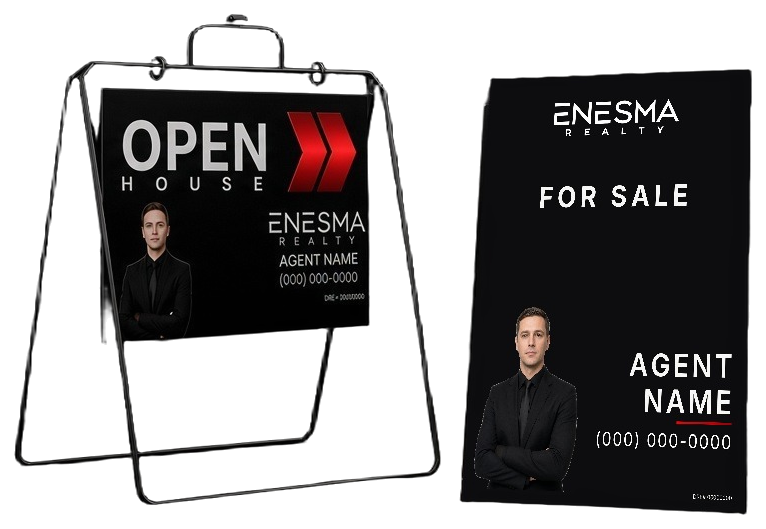
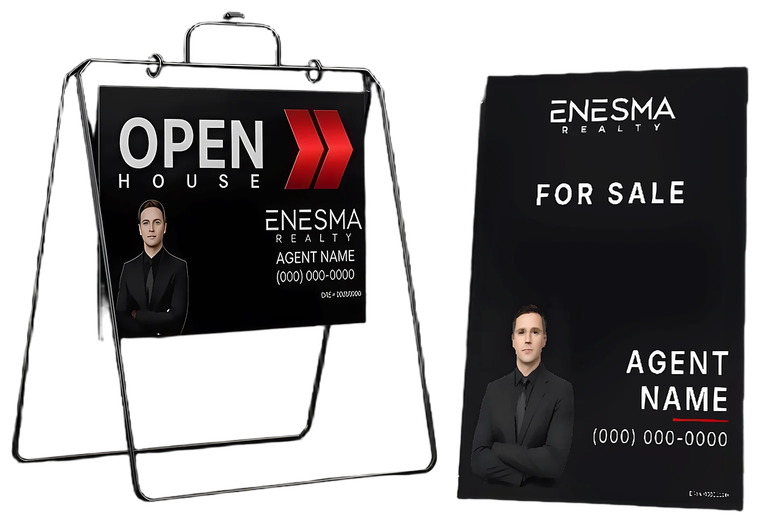
Home tiles: sharper, brighter product cutouts (2x upscaled, cleaned dark areas) so the black merchandise reads clearly on the black tiles. (#24)

diff --git a/index.html b/index.html
@@ -8,7 +8,7 @@
 (function () {
   var path = location.pathname, marker = '/enesma-shop/', i = path.indexOf(marker);
   window.SHOP_BASE = i >= 0 ? path.slice(0, i + marker.length) : '/';
-  var v = '20261123t';
+  var v = '20261123v';
   var b = window.SHOP_BASE;
   document.write('<base href="' + b + '">');
   document.write('<link rel="stylesheet" href="' + b + 'css/shop.css?v=' + v + '">');
@@ -34,13 +34,13 @@
 <body data-page="home">
 <div id="app"></div>
 <script>
-document.write('<script src="' + window.SHOP_BASE + 'js/config.js?v=20261123t"><\/script>');
-document.write('<script src="' + window.SHOP_BASE + 'js/catalog.js?v=20261123t"><\/script>');
-document.write('<script src="' + window.SHOP_BASE + 'js/cart.js?v=20261123t"><\/script>');
-document.write('<script src="' + window.SHOP_BASE + 'js/api.js?v=20261123t"><\/script>');
-document.write('<script src="' + window.SHOP_BASE + 'js/ui.js?v=20261123t"><\/script>');
-document.write('<script src="' + window.SHOP_BASE + 'js/main.js?v=20261123t"><\/script>');
-if (window.__ESHOP_INTRO) document.write('<script src="' + window.SHOP_BASE + 'js/intro.js?v=20261123t-white"><\/script>');
+document.write('<script src="' + window.SHOP_BASE + 'js/config.js?v=20261123v"><\/script>');
+document.write('<script src="' + window.SHOP_BASE + 'js/catalog.js?v=20261123v"><\/script>');
+document.write('<script src="' + window.SHOP_BASE + 'js/cart.js?v=20261123v"><\/script>');
+document.write('<script src="' + window.SHOP_BASE + 'js/api.js?v=20261123v"><\/script>');
+document.write('<script src="' + window.SHOP_BASE + 'js/ui.js?v=20261123v"><\/script>');
+document.write('<script src="' + window.SHOP_BASE + 'js/main.js?v=20261123v"><\/script>');
+if (window.__ESHOP_INTRO) document.write('<script src="' + window.SHOP_BASE + 'js/intro.js?v=20261123v-white"><\/script>');
 </script>
 </body>
 </html>

diff --git a/cards/index.html b/cards/index.html
@@ -8,7 +8,7 @@
 (function () {
   var path = location.pathname, marker = '/enesma-shop/', i = path.indexOf(marker);
   window.SHOP_BASE = i >= 0 ? path.slice(0, i + marker.length) : '/';
-  var v = '20261123t';
+  var v = '20261123v';
   var b = window.SHOP_BASE;
   document.write('<base href="' + b + '">');
   document.write('<link rel="stylesheet" href="' + b + 'css/shop.css?v=' + v + '">');
@@ -23,12 +23,12 @@
 <body data-page="category" data-category="cards" data-title="Cards" data-lede="Business cards, printed with your photo and contact details.">
 <div id="app"></div>
 <script>
-document.write('<script src="' + window.SHOP_BASE + 'js/config.js?v=20261123t"><\/script>');
-document.write('<script src="' + window.SHOP_BASE + 'js/catalog.js?v=20261123t"><\/script>');
-document.write('<script src="' + window.SHOP_BASE + 'js/cart.js?v=20261123t"><\/script>');
-document.write('<script src="' + window.SHOP_BASE + 'js/api.js?v=20261123t"><\/script>');
-document.write('<script src="' + window.SHOP_BASE + 'js/ui.js?v=20261123t"><\/script>');
-document.write('<script src="' + window.SHOP_BASE + 'js/main.js?v=20261123t"><\/script>');
+document.write('<script src="' + window.SHOP_BASE + 'js/config.js?v=20261123v"><\/script>');
+document.write('<script src="' + window.SHOP_BASE + 'js/catalog.js?v=20261123v"><\/script>');
+document.write('<script src="' + window.SHOP_BASE + 'js/cart.js?v=20261123v"><\/script>');
+document.write('<script src="' + window.SHOP_BASE + 'js/api.js?v=20261123v"><\/script>');
+document.write('<script src="' + window.SHOP_BASE + 'js/ui.js?v=20261123v"><\/script>');
+document.write('<script src="' + window.SHOP_BASE + 'js/main.js?v=20261123v"><\/script>');
 </script>
 </body>
 </html>

diff --git a/signs/index.html b/signs/index.html
@@ -8,7 +8,7 @@
 (function () {
   var path = location.pathname, marker = '/enesma-shop/', i = path.indexOf(marker);
   window.SHOP_BASE = i >= 0 ? path.slice(0, i + marker.length) : '/';
-  var v = '20261123t';
+  var v = '20261123v';
   var b = window.SHOP_BASE;
   document.write('<base href="' + b + '">');
   document.write('<link rel="stylesheet" href="' + b + 'css/shop.css?v=' + v + '">');
@@ -23,12 +23,12 @@
 <body data-page="category" data-category="signs" data-title="Signs" data-lede="For sale signs and open house signs, in White or Black.">
 <div id="app"></div>
 <script>
-document.write('<script src="' + window.SHOP_BASE + 'js/config.js?v=20261123t"><\/script>');
-document.write('<script src="' + window.SHOP_BASE + 'js/catalog.js?v=20261123t"><\/script>');
-document.write('<script src="' + window.SHOP_BASE + 'js/cart.js?v=20261123t"><\/script>');
-document.write('<script src="' + window.SHOP_BASE + 'js/api.js?v=20261123t"><\/script>');
-document.write('<script src="' + window.SHOP_BASE + 'js/ui.js?v=20261123t"><\/script>');
-document.write('<script src="' + window.SHOP_BASE + 'js/main.js?v=20261123t"><\/script>');
+document.write('<script src="' + window.SHOP_BASE + 'js/config.js?v=20261123v"><\/script>');
+document.write('<script src="' + window.SHOP_BASE + 'js/catalog.js?v=20261123v"><\/script>');
+document.write('<script src="' + window.SHOP_BASE + 'js/cart.js?v=20261123v"><\/script>');
+document.write('<script src="' + window.SHOP_BASE + 'js/api.js?v=20261123v"><\/script>');
+document.write('<script src="' + window.SHOP_BASE + 'js/ui.js?v=20261123v"><\/script>');
+document.write('<script src="' + window.SHOP_BASE + 'js/main.js?v=20261123v"><\/script>');
 </script>
 </body>
 </html>

diff --git a/gear/index.html b/gear/index.html
@@ -8,7 +8,7 @@
 (function () {
   var path = location.pathname, marker = '/enesma-shop/', i = path.indexOf(marker);
   window.SHOP_BASE = i >= 0 ? path.slice(0, i + marker.length) : '/';
-  var v = '20261123t';
+  var v = '20261123v';
   var b = window.SHOP_BASE;
   document.write('<base href="' + b + '">');
   document.write('<link rel="stylesheet" href="' + b + 'css/shop.css?v=' + v + '">');
@@ -25,12 +25,12 @@ document.write('<script type="importmap">'+JSON.stringify({imports:{"three":wind
 <body data-page="closet">
 <div id="app"></div>
 <script>
-document.write('<script src="' + window.SHOP_BASE + 'js/config.js?v=20261123t"><\/script>');
-document.write('<script src="' + window.SHOP_BASE + 'js/catalog.js?v=20261123t"><\/script>');
-document.write('<script src="' + window.SHOP_BASE + 'js/cart.js?v=20261123t"><\/script>');
-document.write('<script src="' + window.SHOP_BASE + 'js/api.js?v=20261123t"><\/script>');
-document.write('<script src="' + window.SHOP_BASE + 'js/ui.js?v=20261123t"><\/script>');
-document.write('<script src="' + window.SHOP_BASE + 'js/main.js?v=20261123t"><\/script>');
+document.write('<script src="' + window.SHOP_BASE + 'js/config.js?v=20261123v"><\/script>');
+document.write('<script src="' + window.SHOP_BASE + 'js/catalog.js?v=20261123v"><\/script>');
+document.write('<script src="' + window.SHOP_BASE + 'js/cart.js?v=20261123v"><\/script>');
+document.write('<script src="' + window.SHOP_BASE + 'js/api.js?v=20261123v"><\/script>');
+document.write('<script src="' + window.SHOP_BASE + 'js/ui.js?v=20261123v"><\/script>');
+document.write('<script src="' + window.SHOP_BASE + 'js/main.js?v=20261123v"><\/script>');
 </script>
 </body>
 </html>

diff --git a/signs/for-sale-aluminum/index.html b/signs/for-sale-aluminum/index.html
@@ -8,7 +8,7 @@
 (function () {
   var path = location.pathname, marker = '/enesma-shop/', i = path.indexOf(marker);
   window.SHOP_BASE = i >= 0 ? path.slice(0, i + marker.length) : '/';
-  var v = '20261123t';
+  var v = '20261123v';
   var b = window.SHOP_BASE;
   document.write('<base href="' + b + '">');
   document.write('<link rel="stylesheet" href="' + b + 'css/shop.css?v=' + v + '">');
@@ -23,12 +23,12 @@
 <body data-page="product" data-sku="for-sale-aluminum">
 <div id="app"></div>
 <script>
-document.write('<script src="' + window.SHOP_BASE + 'js/config.js?v=20261123t"><\/script>');
-document.write('<script src="' + window.SHOP_BASE + 'js/catalog.js?v=20261123t"><\/script>');
-document.write('<script src="' + window.SHOP_BASE + 'js/cart.js?v=20261123t"><\/script>');
-document.write('<script src="' + window.SHOP_BASE + 'js/api.js?v=20261123t"><\/script>');
-document.write('<script src="' + window.SHOP_BASE + 'js/ui.js?v=20261123t"><\/script>');
-document.write('<script src="' + window.SHOP_BASE + 'js/main.js?v=20261123t"><\/script>');
+document.write('<script src="' + window.SHOP_BASE + 'js/config.js?v=20261123v"><\/script>');
+document.write('<script src="' + window.SHOP_BASE + 'js/catalog.js?v=20261123v"><\/script>');
+document.write('<script src="' + window.SHOP_BASE + 'js/cart.js?v=20261123v"><\/script>');
+document.write('<script src="' + window.SHOP_BASE + 'js/api.js?v=20261123v"><\/script>');
+document.write('<script src="' + window.SHOP_BASE + 'js/ui.js?v=20261123v"><\/script>');
+document.write('<script src="' + window.SHOP_BASE + 'js/main.js?v=20261123v"><\/script>');
 </script>
 </body>
 </html>

diff --git a/signs/for-sale-plastic/index.html b/signs/for-sale-plastic/index.html
@@ -8,7 +8,7 @@
 (function () {
   var path = location.pathname, marker = '/enesma-shop/', i = path.indexOf(marker);
   window.SHOP_BASE = i >= 0 ? path.slice(0, i + marker.length) : '/';
-  var v = '20261123t';
+  var v = '20261123v';
   var b = window.SHOP_BASE;
   document.write('<base href="' + b + '">');
   document.write('<link rel="stylesheet" href="' + b + 'css/shop.css?v=' + v + '">');
@@ -23,12 +23,12 @@
 <body data-page="product" data-sku="for-sale-plastic">
 <div id="app"></div>
 <script>
-document.write('<script src="' + window.SHOP_BASE + 'js/config.js?v=20261123t"><\/script>');
-document.write('<script src="' + window.SHOP_BASE + 'js/catalog.js?v=20261123t"><\/script>');
-document.write('<script src="' + window.SHOP_BASE + 'js/cart.js?v=20261123t"><\/script>');
-document.write('<script src="' + window.SHOP_BASE + 'js/api.js?v=20261123t"><\/script>');
-document.write('<script src="' + window.SHOP_BASE + 'js/ui.js?v=20261123t"><\/script>');
-document.write('<script src="' + window.SHOP_BASE + 'js/main.js?v=20261123t"><\/script>');
+document.write('<script src="' + window.SHOP_BASE + 'js/config.js?v=20261123v"><\/script>');
+document.write('<script src="' + window.SHOP_BASE + 'js/catalog.js?v=20261123v"><\/script>');
+document.write('<script src="' + window.SHOP_BASE + 'js/cart.js?v=20261123v"><\/script>');
+document.write('<script src="' + window.SHOP_BASE + 'js/api.js?v=20261123v"><\/script>');
+document.write('<script src="' + window.SHOP_BASE + 'js/ui.js?v=20261123v"><\/script>');
+document.write('<script src="' + window.SHOP_BASE + 'js/main.js?v=20261123v"><\/script>');
 </script>
 </body>
 </html>

diff --git a/gear/quarter-zip/index.html b/gear/quarter-zip/index.html
@@ -8,7 +8,7 @@
 (function () {
   var path = location.pathname, marker = '/enesma-shop/', i = path.indexOf(marker);
   window.SHOP_BASE = i >= 0 ? path.slice(0, i + marker.length) : '/';
-  var v = '20261123t';
+  var v = '20261123v';
   var b = window.SHOP_BASE;
   document.write('<base href="' + b + '">');
   document.write('<link rel="stylesheet" href="' + b + 'css/shop.css?v=' + v + '">');
@@ -23,12 +23,12 @@
 <body data-page="product" data-sku="quarter-zip">
 <div id="app"></div>
 <script>
-document.write('<script src="' + window.SHOP_BASE + 'js/config.js?v=20261123t"><\/script>');
-document.write('<script src="' + window.SHOP_BASE + 'js/catalog.js?v=20261123t"><\/script>');
-document.write('<script src="' + window.SHOP_BASE + 'js/cart.js?v=20261123t"><\/script>');
-document.write('<script src="' + window.SHOP_BASE + 'js/api.js?v=20261123t"><\/script>');
-document.write('<script src="' + window.SHOP_BASE + 'js/ui.js?v=20261123t"><\/script>');
-document.write('<script src="' + window.SHOP_BASE + 'js/main.js?v=20261123t"><\/script>');
+document.write('<script src="' + window.SHOP_BASE + 'js/config.js?v=20261123v"><\/script>');
+document.write('<script src="' + window.SHOP_BASE + 'js/catalog.js?v=20261123v"><\/script>');
+document.write('<script src="' + window.SHOP_BASE + 'js/cart.js?v=20261123v"><\/script>');
+document.write('<script src="' + window.SHOP_BASE + 'js/api.js?v=20261123v"><\/script>');
+document.write('<script src="' + window.SHOP_BASE + 'js/ui.js?v=20261123v"><\/script>');
+document.write('<script src="' + window.SHOP_BASE + 'js/main.js?v=20261123v"><\/script>');
 </script>
 </body>
 </html>

diff --git a/cards/cards-1000/index.html b/cards/cards-1000/index.html
@@ -8,7 +8,7 @@
 (function () {
   var path = location.pathname, marker = '/enesma-shop/', i = path.indexOf(marker);
   window.SHOP_BASE = i >= 0 ? path.slice(0, i + marker.length) : '/';
-  var v = '20261123t';
+  var v = '20261123v';
   var b = window.SHOP_BASE;
   document.write('<base href="' + b + '">');
   document.write('<link rel="stylesheet" href="' + b + 'css/shop.css?v=' + v + '">');
@@ -23,12 +23,12 @@
 <body data-page="product" data-sku="cards-1000">
 <div id="app"></div>
 <script>
-document.write('<script src="' + window.SHOP_BASE + 'js/config.js?v=20261123t"><\/script>');
-document.write('<script src="' + window.SHOP_BASE + 'js/catalog.js?v=20261123t"><\/script>');
-document.write('<script src="' + window.SHOP_BASE + 'js/cart.js?v=20261123t"><\/script>');
-document.write('<script src="' + window.SHOP_BASE + 'js/api.js?v=20261123t"><\/script>');
-document.write('<script src="' + window.SHOP_BASE + 'js/ui.js?v=20261123t"><\/script>');
-document.write('<script src="' + window.SHOP_BASE + 'js/main.js?v=20261123t"><\/script>');
+document.write('<script src="' + window.SHOP_BASE + 'js/config.js?v=20261123v"><\/script>');
+document.write('<script src="' + window.SHOP_BASE + 'js/catalog.js?v=20261123v"><\/script>');
+document.write('<script src="' + window.SHOP_BASE + 'js/cart.js?v=20261123v"><\/script>');
+document.write('<script src="' + window.SHOP_BASE + 'js/api.js?v=20261123v"><\/script>');
+document.write('<script src="' + window.SHOP_BASE + 'js/ui.js?v=20261123v"><\/script>');
+document.write('<script src="' + window.SHOP_BASE + 'js/main.js?v=20261123v"><\/script>');
 </script>
 </body>
 </html>

diff --git a/signs/open-house/index.html b/signs/open-house/index.html
@@ -8,7 +8,7 @@
 (function () {
   var path = location.pathname, marker = '/enesma-shop/', i = path.indexOf(marker);
   window.SHOP_BASE = i >= 0 ? path.slice(0, i + marker.length) : '/';
-  var v = '20261123t';
+  var v = '20261123v';
   var b = window.SHOP_BASE;
   document.write('<base href="' + b + '">');
   document.write('<link rel="stylesheet" href="' + b + 'css/shop.css?v=' + v + '">');
@@ -23,12 +23,12 @@
 <body data-page="product" data-sku="open-house">
 <div id="app"></div>
 <script>
-document.write('<script src="' + window.SHOP_BASE + 'js/config.js?v=20261123t"><\/script>');
-document.write('<script src="' + window.SHOP_BASE + 'js/catalog.js?v=20261123t"><\/script>');
-document.write('<script src="' + window.SHOP_BASE + 'js/cart.js?v=20261123t"><\/script>');
-document.write('<script src="' + window.SHOP_BASE + 'js/api.js?v=20261123t"><\/script>');
-document.write('<script src="' + window.SHOP_BASE + 'js/ui.js?v=20261123t"><\/script>');
-document.write('<script src="' + window.SHOP_BASE + 'js/main.js?v=20261123t"><\/script>');
+document.write('<script src="' + window.SHOP_BASE + 'js/config.js?v=20261123v"><\/script>');
+document.write('<script src="' + window.SHOP_BASE + 'js/catalog.js?v=20261123v"><\/script>');
+document.write('<script src="' + window.SHOP_BASE + 'js/cart.js?v=20261123v"><\/script>');
+document.write('<script src="' + window.SHOP_BASE + 'js/api.js?v=20261123v"><\/script>');
+document.write('<script src="' + window.SHOP_BASE + 'js/ui.js?v=20261123v"><\/script>');
+document.write('<script src="' + window.SHOP_BASE + 'js/main.js?v=20261123v"><\/script>');
 </script>
 </body>
 </html>

diff --git a/gear/t-shirt/index.html b/gear/t-shirt/index.html
@@ -8,7 +8,7 @@
 (function () {
   var path = location.pathname, marker = '/enesma-shop/', i = path.indexOf(marker);
   window.SHOP_BASE = i >= 0 ? path.slice(0, i + marker.length) : '/';
-  var v = '20261123t';
+  var v = '20261123v';
   var b = window.SHOP_BASE;
   document.write('<base href="' + b + '">');
   document.write('<link rel="stylesheet" href="' + b + 'css/shop.css?v=' + v + '">');
@@ -23,12 +23,12 @@
 <body data-page="product" data-sku="t-shirt">
 <div id="app"></div>
 <script>
-document.write('<script src="' + window.SHOP_BASE + 'js/config.js?v=20261123t"><\/script>');
-document.write('<script src="' + window.SHOP_BASE + 'js/catalog.js?v=20261123t"><\/script>');
-document.write('<script src="' + window.SHOP_BASE + 'js/cart.js?v=20261123t"><\/script>');
-document.write('<script src="' + window.SHOP_BASE + 'js/api.js?v=20261123t"><\/script>');
-document.write('<script src="' + window.SHOP_BASE + 'js/ui.js?v=20261123t"><\/script>');
-document.write('<script src="' + window.SHOP_BASE + 'js/main.js?v=20261123t"><\/script>');
+document.write('<script src="' + window.SHOP_BASE + 'js/config.js?v=20261123v"><\/script>');
+document.write('<script src="' + window.SHOP_BASE + 'js/catalog.js?v=20261123v"><\/script>');
+document.write('<script src="' + window.SHOP_BASE + 'js/cart.js?v=20261123v"><\/script>');
+document.write('<script src="' + window.SHOP_BASE + 'js/api.js?v=20261123v"><\/script>');
+document.write('<script src="' + window.SHOP_BASE + 'js/ui.js?v=20261123v"><\/script>');
+document.write('<script src="' + window.SHOP_BASE + 'js/main.js?v=20261123v"><\/script>');
 </script>
 </body>
 </html>

diff --git a/signs/a-frame/index.html b/signs/a-frame/index.html
@@ -8,7 +8,7 @@
 (function () {
   var path = location.pathname, marker = '/enesma-shop/', i = path.indexOf(marker);
   window.SHOP_BASE = i >= 0 ? path.slice(0, i + marker.length) : '/';
-  var v = '20261123t';
+  var v = '20261123v';
   var b = window.SHOP_BASE;
   document.write('<base href="' + b + '">');
   document.write('<link rel="stylesheet" href="' + b + 'css/shop.css?v=' + v + '">');
@@ -23,12 +23,12 @@
 <body data-page="product" data-sku="a-frame">
 <div id="app"></div>
 <script>
-document.write('<script src="' + window.SHOP_BASE + 'js/config.js?v=20261123t"><\/script>');
-document.write('<script src="' + window.SHOP_BASE + 'js/catalog.js?v=20261123t"><\/script>');
-document.write('<script src="' + window.SHOP_BASE + 'js/cart.js?v=20261123t"><\/script>');
-document.write('<script src="' + window.SHOP_BASE + 'js/api.js?v=20261123t"><\/script>');
-document.write('<script src="' + window.SHOP_BASE + 'js/ui.js?v=20261123t"><\/script>');
-document.write('<script src="' + window.SHOP_BASE + 'js/main.js?v=20261123t"><\/script>');
+document.write('<script src="' + window.SHOP_BASE + 'js/config.js?v=20261123v"><\/script>');
+document.write('<script src="' + window.SHOP_BASE + 'js/catalog.js?v=20261123v"><\/script>');
+document.write('<script src="' + window.SHOP_BASE + 'js/cart.js?v=20261123v"><\/script>');
+document.write('<script src="' + window.SHOP_BASE + 'js/api.js?v=20261123v"><\/script>');
+document.write('<script src="' + window.SHOP_BASE + 'js/ui.js?v=20261123v"><\/script>');
+document.write('<script src="' + window.SHOP_BASE + 'js/main.js?v=20261123v"><\/script>');
 </script>
 </body>
 </html>

diff --git a/gear/polo/index.html b/gear/polo/index.html
@@ -8,7 +8,7 @@
 (function () {
   var path = location.pathname, marker = '/enesma-shop/', i = path.indexOf(marker);
   window.SHOP_BASE = i >= 0 ? path.slice(0, i + marker.length) : '/';
-  var v = '20261123t';
+  var v = '20261123v';
   var b = window.SHOP_BASE;
   document.write('<base href="' + b + '">');
   document.write('<link rel="stylesheet" href="' + b + 'css/shop.css?v=' + v + '">');
@@ -23,12 +23,12 @@
 <body data-page="product" data-sku="polo">
 <div id="app"></div>
 <script>
-document.write('<script src="' + window.SHOP_BASE + 'js/config.js?v=20261123t"><\/script>');
-document.write('<script src="' + window.SHOP_BASE + 'js/catalog.js?v=20261123t"><\/script>');
-document.write('<script src="' + window.SHOP_BASE + 'js/cart.js?v=20261123t"><\/script>');
-document.write('<script src="' + window.SHOP_BASE + 'js/api.js?v=20261123t"><\/script>');
-document.write('<script src="' + window.SHOP_BASE + 'js/ui.js?v=20261123t"><\/script>');
-document.write('<script src="' + window.SHOP_BASE + 'js/main.js?v=20261123t"><\/script>');
+document.write('<script src="' + window.SHOP_BASE + 'js/config.js?v=20261123v"><\/script>');
+document.write('<script src="' + window.SHOP_BASE + 'js/catalog.js?v=20261123v"><\/script>');
+document.write('<script src="' + window.SHOP_BASE + 'js/cart.js?v=20261123v"><\/script>');
+document.write('<script src="' + window.SHOP_BASE + 'js/api.js?v=20261123v"><\/script>');
+document.write('<script src="' + window.SHOP_BASE + 'js/ui.js?v=20261123v"><\/script>');
+document.write('<script src="' + window.SHOP_BASE + 'js/main.js?v=20261123v"><\/script>');
 </script>
 </body>
 </html>
